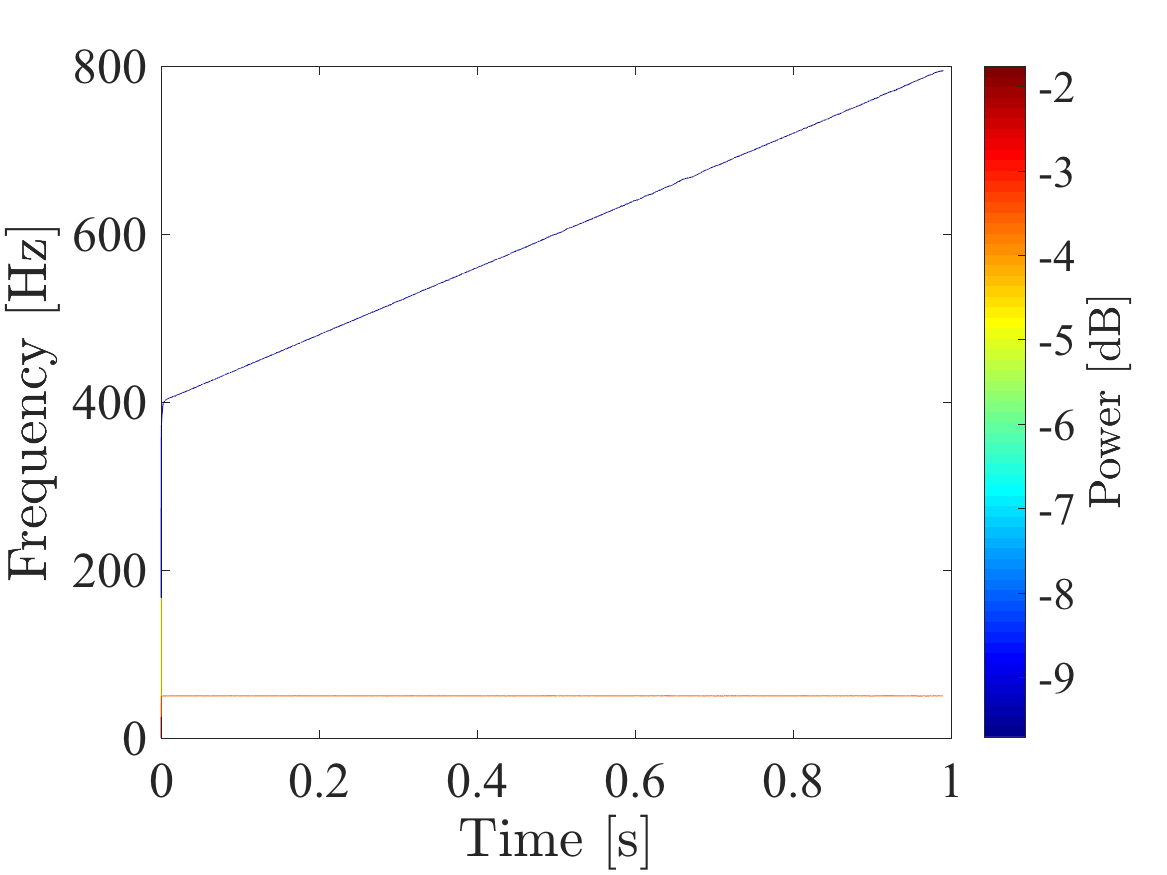
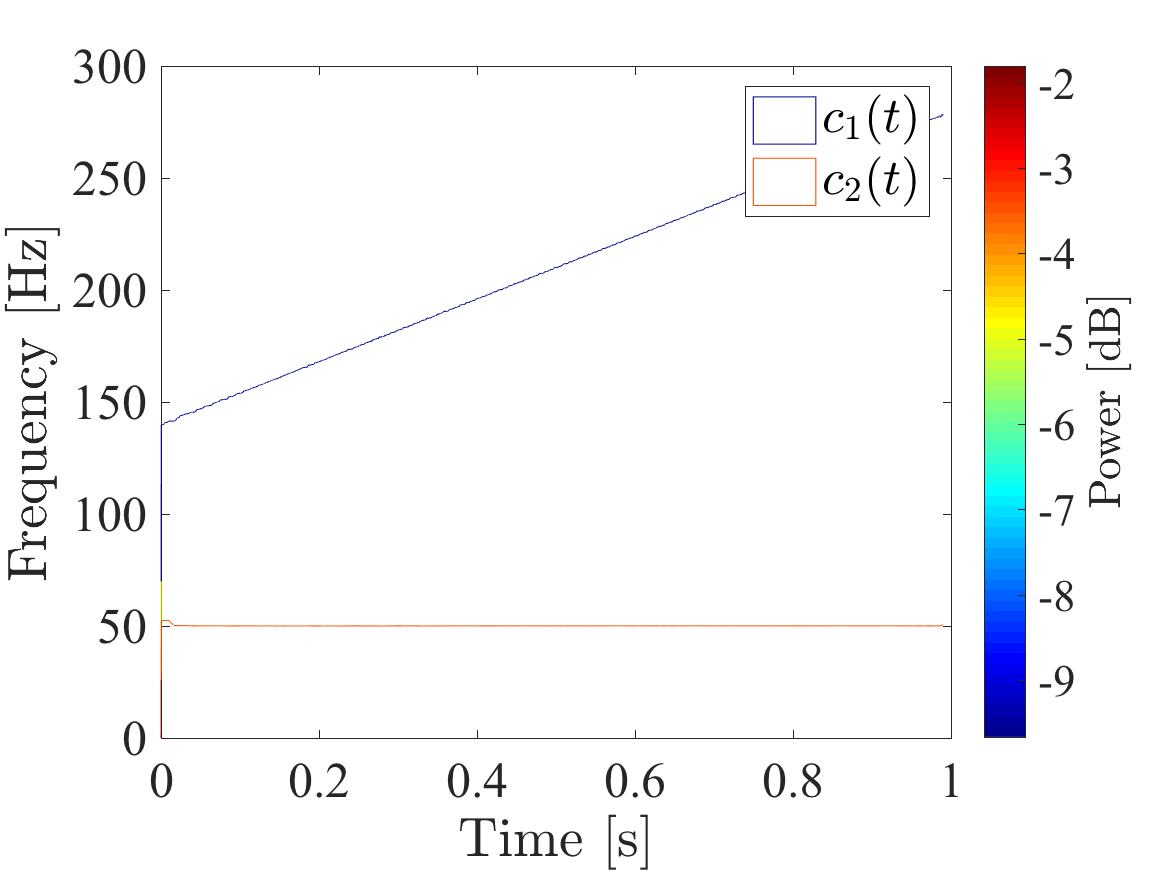
Change omega_1 from 200 to 70 Hz

diff --git a/example/example.m b/example/example.m
@@ -16,7 +16,7 @@ amplitude_0 = 1;
 omega_0 = 2 * pi * 50;
 
 amplitude_1 = 0.5;
-omega_1 = 2 * pi * 200;
+omega_1 = 2 * pi * 70;
 
 voltageWaveform = amplitude_0 * sin(omega_0 * time) ...
 				+ amplitude_1 * cos(omega_1 * time .^2);
@@ -86,8 +86,11 @@ figure(fig)
 clf(fig)
 box on
 hold on
-
-hilbertSpectrum(intrinsicModeFunctions, samplingFrequency, 0.02 * samplingFrequency)
+hilbertSpectrum(intrinsicModeFunctions(:, 1), samplingFrequency, 0.02 * samplingFrequency)
+hilbertSpectrum(intrinsicModeFunctions(:, 2), samplingFrequency, 0.02 * samplingFrequency)
+h = legend('$$c_1(t)$$', '$$c_2(t)$$');
+set(h,'Interpreter','latex')
+set(h,'FontSize',fontSize)
 ax = gca;
 ax.FontSize = fontSize;
 saveas(fig, [path_to_figures 'hs'] , 'png')
